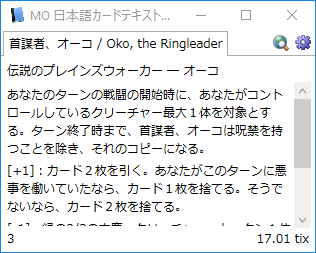
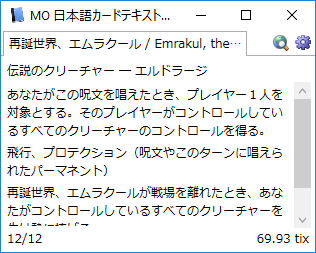
MH3

diff --git a/docs/index.html b/docs/index.html
@@ -38,24 +38,24 @@
     <h3 id="download">ダウンロード</h3>
     <div>
         <p>ダウンロード時や実行時に、ブラウザやセキュリティソフトからセキュリティ警告が出る場合があります。</p>
-        <h4><span class="underline">最新版 v2.31.0（サンダー・ジャンクションの無法者 対応）</span></h4>
+        <h4><span class="underline">最新版 v2.32.0（モダンホライゾン3 対応）</span></h4>
         <p>
             <img src="images/download_file.png" width="16" height="16" />
-            <a href="https://fog-bank.github.io/mojp/downloads/v2.31.0/mojp.zip">ZIP 版</a> ｜
+            <a href="https://fog-bank.github.io/mojp/downloads/v2.32.0/mojp.zip">ZIP 版</a> ｜
             <img src="images/clickonce.png" width="16" height="16" />
-            <a href="https://github.com/fog-bank/mojp/releases/download/v2.31.0/setup.exe">インストーラー版</a> ｜
-            <a href="https://fog-bank.github.io/mojp/downloads/v2.31.0/mojp_offline.zip">オフライン版</a> ｜
+            <a href="https://github.com/fog-bank/mojp/releases/download/v2.32.0/setup.exe">インストーラー版</a> ｜
+            <a href="https://fog-bank.github.io/mojp/downloads/v2.32.0/mojp_offline.zip">オフライン版</a> ｜
             <img src="images/note.png" width="16" height="16" />
-            <a href="https://github.com/fog-bank/mojp/releases/tag/v2.31.0">リリースノート</a>
+            <a href="https://github.com/fog-bank/mojp/releases/tag/v2.32.0">リリースノート</a>
         </p>
         <p>
             インストーラー版 … MO と同じ形式の自動更新機能がついています。<br />
           　オフライン版 … インターネットを必要とする機能をすべて取り除いたものです。セキュリティ警告の回避を期待しています。
         </p>
-        <h4><span class="underline">v2.30.0（カルロフ邸殺人事件 対応）</span></h4>
+        <h4><span class="underline">v2.31.0（サンダー・ジャンクションの無法者 対応）</span></h4>
         <p>
             <img src="images/note.png" width="16" height="16" />
-            <a href="https://github.com/fog-bank/mojp/releases/tag/v2.30.0">リリースノート</a>
+            <a href="https://github.com/fog-bank/mojp/releases/tag/v2.31.0">リリースノート</a>
         </p>
         <h4><span class="underline">更新履歴</span></h4>
         <p>v2.0.0（基本セット 2019）より、ツールバーをカスタマイズできるようになりました。</p>

diff --git a/mojp/OptionDialog.xaml b/mojp/OptionDialog.xaml
@@ -48,14 +48,14 @@
                     <RowDefinition Height="Auto" />
                 </Grid.RowDefinitions>
                 <TextBlock>リリース バージョン</TextBlock>
-                <TextBlock Grid.Column="2">2.31.0</TextBlock>
+                <TextBlock Grid.Column="2">2.32.0</TextBlock>
                 <TextBlock Name="grpGoGitHub" Grid.Column="3">
                     <Hyperlink ToolTip="https://github.com/fog-bank/mojp/releases" Click="OnClickHyperlink">GitHub に移動</Hyperlink>
                 </TextBlock>
                 <TextBlock Grid.Row="1" VerticalAlignment="Top">対応最新セット</TextBlock>
                 <StackPanel Grid.Row="1" Grid.Column="2" Grid.ColumnSpan="2">
                     <TextBlock>サンダー・ジャンクションの無法者</TextBlock>
-                    <!--<TextBlock Margin="2,0,2,4"></TextBlock>-->
+                    <TextBlock Margin="2,0,2,4">モダンホライゾン3</TextBlock>
                 </StackPanel>
                 <CheckBox Name="grpAutoCheck" Grid.Row="2" Grid.ColumnSpan="4" Margin="0,4,0,0"
                           IsChecked="{Binding AutoVersionCheck}" ToolTipService.ShowDuration="60000">

diff --git a/mojp/Properties/AssemblyInfo.cs b/mojp/Properties/AssemblyInfo.cs
@@ -53,5 +53,5 @@ using System.Windows;
 // すべての値を指定するか、下のように '*' を使ってビルドおよびリビジョン番号を 
 // 既定値にすることができます:
 // [assembly: AssemblyVersion("1.0.*")]
-[assembly: AssemblyVersion("2.31.0.0")]
-[assembly: AssemblyFileVersion("2.31.40510.1")]
+[assembly: AssemblyVersion("2.32.0.0")]
+[assembly: AssemblyFileVersion("2.32.40602.0")]
